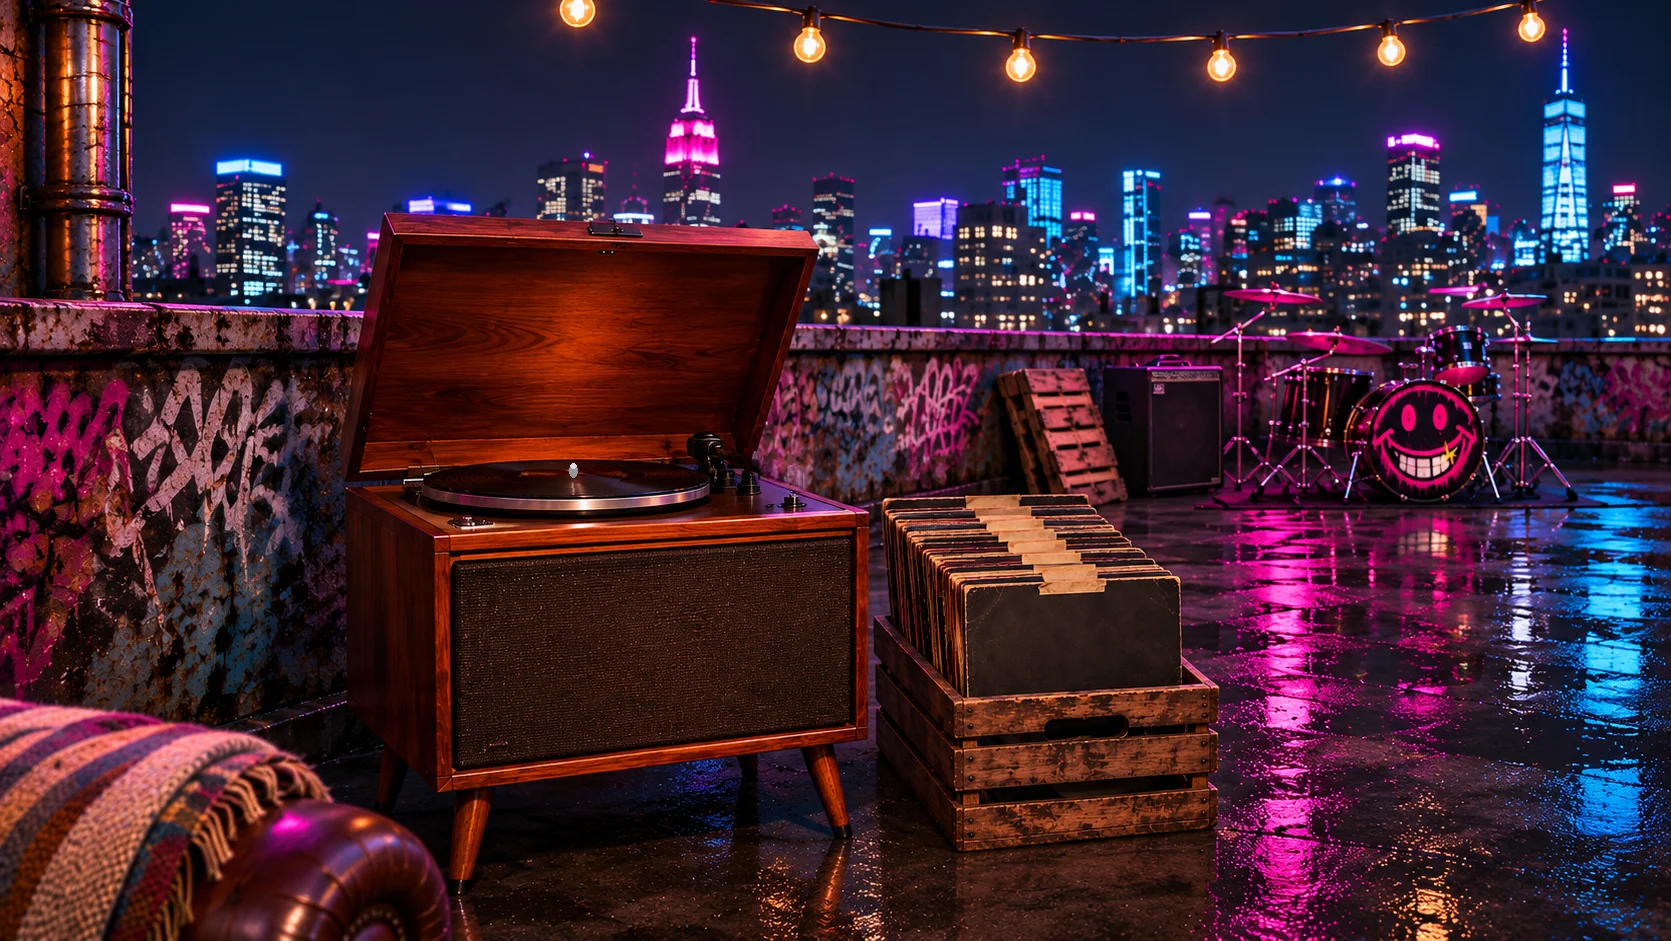
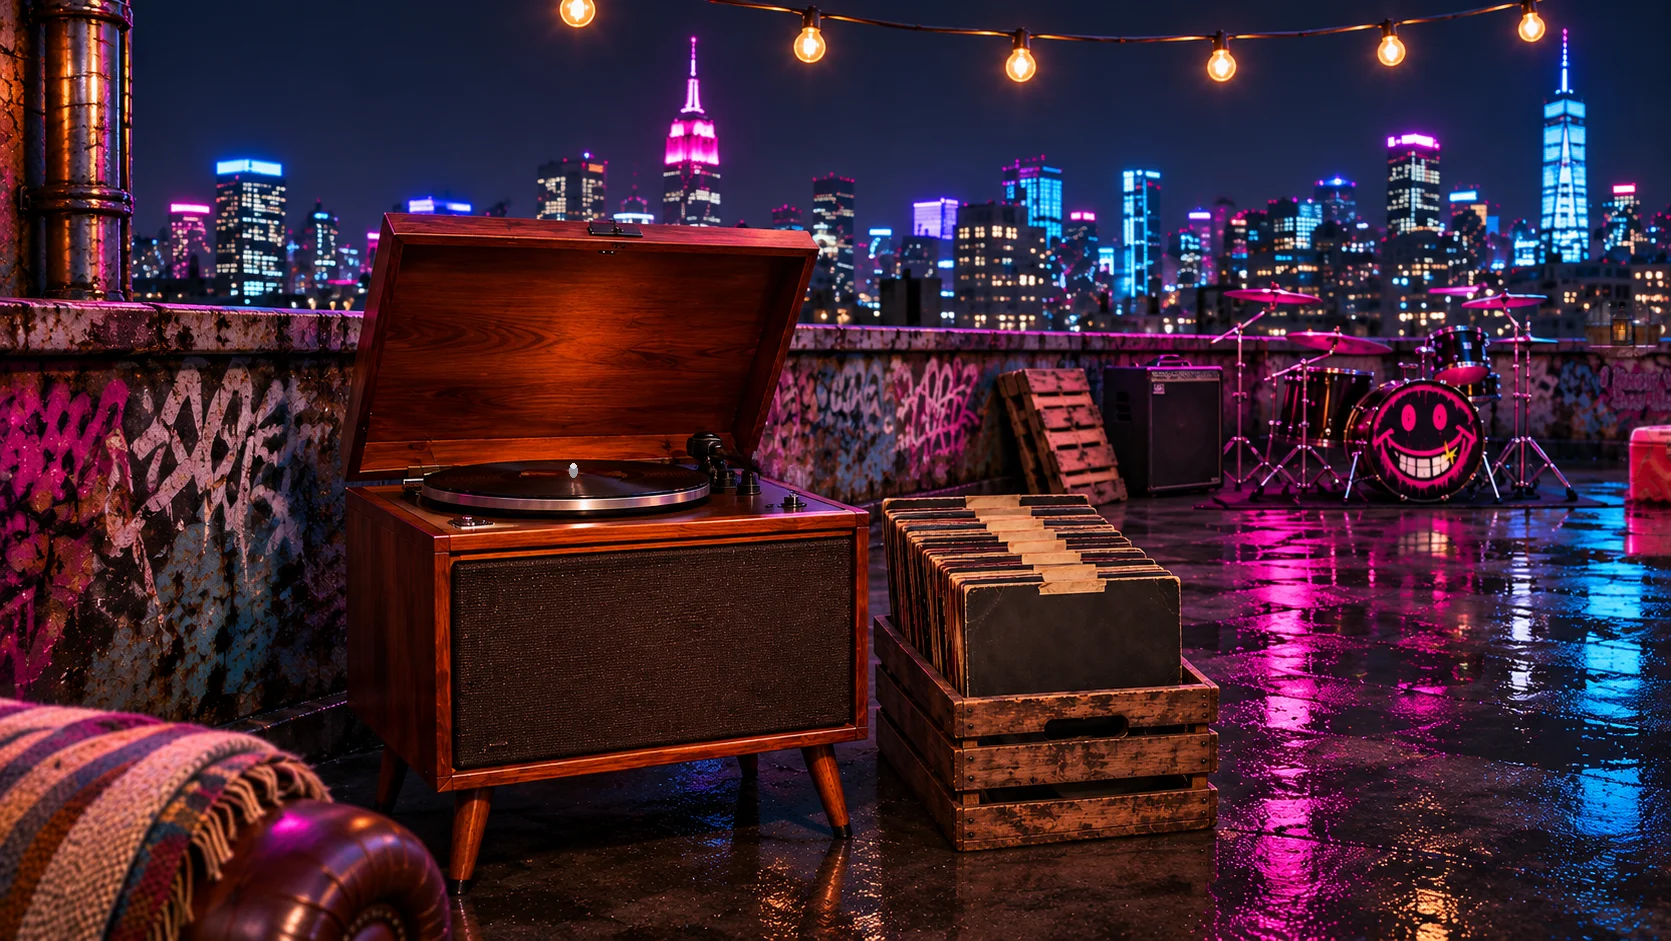
Lounge view matches the roof (lantern, cooler, tag) with the same interactions; swipe to the stage on phones
Claude-Session: https://claude.ai/code/session_011gssdMsenVXumrh9a32rRB

Changed region(s): [[0.9336, 0.3082, 1.0, 0.6164]]

diff --git a/index.html b/index.html
@@ -95,10 +95,10 @@ input{flex:1 1 220px;min-width:0;font:inherit;font-size:16px;padding:12px;backgr
 
 /* ---------- play layer: things on the roof you can poke ---------- */
 #play{position:absolute;left:0;top:0;width:1672px;height:941px;transform-origin:0 0;z-index:3;pointer-events:none}
-#play .pk{appearance:none;-webkit-appearance:none;background-color:transparent;border:0;padding:0;margin:0;color:transparent;position:absolute;pointer-events:auto;cursor:pointer;border-radius:8px;-webkit-tap-highlight-color:transparent}
+#play .pk,#lg-play .pk{appearance:none;-webkit-appearance:none;background-color:transparent;border:0;padding:0;margin:0;color:transparent;position:absolute;pointer-events:auto;cursor:pointer;border-radius:8px;-webkit-tap-highlight-color:transparent}
 #play .pk.img{background-image:url(img/rooftop-lounge.webp?v=10);background-size:1672px 941px;-webkit-mask-image:radial-gradient(ellipse 50% 50% at 50% 50%,#000 70%,transparent 100%);mask-image:radial-gradient(ellipse 50% 50% at 50% 50%,#000 70%,transparent 100%)}
-#play .pk:focus-visible{outline:3px solid var(--cyan);outline-offset:2px}
-@media (hover:hover){#play .pk:hover{filter:brightness(1.25) drop-shadow(0 0 6px rgba(255,61,127,.6))}}
+#play .pk:focus-visible,#lg-play .pk:focus-visible{outline:3px solid var(--cyan);outline-offset:2px}
+@media (hover:hover){#play .pk:hover,#lg-play .pk:hover{filter:brightness(1.25) drop-shadow(0 0 6px rgba(255,61,127,.6))}}
 .lt-glow{position:absolute;left:1206px;top:432px;width:80px;height:80px;border-radius:50%;pointer-events:none;
   background:radial-gradient(circle,rgba(255,190,90,.55) 0,rgba(255,150,60,.22) 30%,rgba(255,120,40,0) 70%);mix-blend-mode:screen;animation:flick 2.3s infinite steps(1)}
 .lt-flame{position:absolute;left:1243px;top:466px;width:6px;height:9px;border-radius:50% 50% 45% 45%;pointer-events:none;
@@ -107,9 +107,9 @@ input{flex:1 1 220px;min-width:0;font:inherit;font-size:16px;padding:12px;backgr
 @keyframes flick2{0%{transform:scale(1,1)}40%{transform:scale(.9,1.15) translateX(.4px)}100%{transform:scale(1.05,.9) translateX(-.4px)}}
 .lt-out{position:absolute;left:1228px;top:450px;width:36px;height:44px;pointer-events:none;background:radial-gradient(ellipse 40% 42% at 50% 55%,rgba(14,10,18,.82) 0,rgba(14,10,18,.55) 45%,rgba(14,10,18,0) 100%);opacity:0;transition:opacity .2s}
 .lt-warm{position:absolute;left:1180px;top:440px;width:132px;height:90px;pointer-events:none;background:radial-gradient(ellipse 50% 50% at 50% 45%,rgba(255,170,80,.18),rgba(255,170,80,0) 70%);mix-blend-mode:screen;transition:opacity .2s}
-#play.dark .lt-warm{opacity:0}
-#play.dark .lt-glow,#play.dark .lt-flame{opacity:0;animation:none;transition:opacity .15s}
-#play.dark .lt-out{opacity:1}
+.dark .lt-warm{opacity:0}
+.dark .lt-glow,.dark .lt-flame{opacity:0;animation:none;transition:opacity .15s}
+.dark .lt-out{opacity:1}
 .smoke{position:absolute;width:6px;height:6px;border-radius:50%;background:rgba(220,220,230,.5);filter:blur(2px);pointer-events:none;animation:smoke 1.6s ease-out forwards}
 @keyframes smoke{to{transform:translate(4px,-38px) scale(4);opacity:0}}
 .pg-gone{position:absolute;left:258px;top:160px;width:84px;height:76px;background:url(img/pigeon-gone.webp?v=1) 0 0/84px 76px;opacity:0;pointer-events:none;transition:opacity .08s}
@@ -256,7 +256,7 @@ input{flex:1 1 220px;min-width:0;font:inherit;font-size:16px;padding:12px;backgr
 .lounge{position:fixed;inset:0;z-index:40;overflow:hidden;background:#05060a;opacity:0;pointer-events:none}
 .lounge.on{opacity:1;pointer-events:auto}
 .lounge:not(.on),.lounge:not(.on) *{pointer-events:none!important}
-.lounge.moving .lg-fill{opacity:.25}.lg-fill{transition:opacity .4s;position:absolute;inset:-40px;background:url(img/lounge.webp?v=7) 62% 50%/cover;filter:blur(22px) brightness(.45)}
+.lounge.moving .lg-fill{opacity:.25}.lg-fill{transition:opacity .4s;position:absolute;inset:-40px;background:url(img/lounge.webp?v=11) 62% 50%/cover;filter:blur(22px) brightness(.45)}
 .lg-cam,.lg-hero{position:absolute;left:0;top:0;width:1672px;height:941px;transform-origin:0 0;will-change:transform,opacity}
 .lg-cam{z-index:8}.lg-hero{z-index:2;background:url(img/rooftop-lounge.webp?v=10) 0 0/1672px 941px;pointer-events:none}
 .lg-cam img{position:absolute;display:block;user-select:none;-webkit-user-drag:none}
@@ -264,6 +264,11 @@ input{flex:1 1 220px;min-width:0;font:inherit;font-size:16px;padding:12px;backgr
 .lg-front{left:341px;top:489px;width:886px;height:405px;pointer-events:none}
 .lg-cam svg{position:absolute;left:0;top:0;width:1672px;height:941px;overflow:visible;pointer-events:none}
 .lg-hot{all:unset;position:absolute;cursor:pointer;border-radius:10px;z-index:4}
+.lg-swipe{display:none;position:absolute;right:14px;top:22px;font:11px var(--mono);letter-spacing:.15em;text-transform:uppercase;color:#fff;opacity:.7;pointer-events:none}
+@media (max-width:760px) and (orientation:portrait){.lg-swipe{display:block}}
+.lounge{touch-action:pan-y}
+#lg-play{position:absolute;left:0;top:0;width:1672px;height:941px;pointer-events:none;z-index:3}
+#lp-kick.kick{filter:drop-shadow(0 0 14px rgba(255,61,127,.9));background:radial-gradient(circle,rgba(255,61,127,.25),transparent 70%)}
 .lg-hot:focus-visible{outline:4px solid var(--cyan);outline-offset:4px}
 .lg-hot.crate{left:873px;top:488px;width:352px;height:365px}
 .lg-hot.deck{left:400px;top:440px;width:420px;height:70px}
@@ -343,7 +348,7 @@ input{flex:1 1 220px;min-width:0;font:inherit;font-size:16px;padding:12px;backgr
 .dig-row[disabled]{cursor:default;color:var(--fog)}.dig-row[disabled] em{color:var(--fog)}
 .dig-row:not([disabled]):hover{background:rgba(255,61,127,.12)}
 @media (max-width:760px){.dig-head h3{visibility:hidden}.dig-foot{flex-wrap:wrap;justify-content:center;border-radius:18px;width:calc(100% - 24px);padding:10px 12px;row-gap:8px}.dig-foot b{order:-1;flex:1 0 100%;text-align:center;font-size:18px}}
-.cr-fill{position:absolute;inset:-40px;background:url(img/lounge.webp?v=7) 50% 50%/cover;filter:blur(24px) brightness(.4)}
+.cr-fill{position:absolute;inset:-40px;background:url(img/lounge.webp?v=11) 50% 50%/cover;filter:blur(24px) brightness(.4)}
 @media (max-width:760px) and (orientation:portrait){
   .lg-panel{position:absolute;pointer-events:auto;left:12px;right:12px;top:auto;bottom:calc(12px + env(safe-area-inset-bottom,0px));width:auto;height:auto;transform:none;background:var(--glass);border-color:var(--line);padding:14px 16px;gap:8px}
   .lg-panel small{font-size:11px}.lg-panel b{font-size:24px}.lg-panel .row{font-size:13px}
@@ -389,6 +394,16 @@ input{flex:1 1 220px;min-width:0;font:inherit;font-size:16px;padding:12px;backgr
       <g id="lg-sleeve" opacity="0"><rect x="-88" y="0" width="176" height="176" rx="3" fill="#0b0b12" stroke="#ff3d7f" stroke-opacity=".6" stroke-width="2"/><image href="img/smile-logo.webp" x="-48" y="26" width="96" height="96"/><text x="0" y="158" text-anchor="middle" font-family="Yellowtail, cursive" font-size="26" fill="#fff">Don't Mind It</text></g>
       </g>
     </svg>
+    <div id="lg-play">
+      <div class="lgp-set" id="lgp-set" style="position:absolute;left:0;top:0;width:1672px;height:941px;transform-origin:0 0;transform:matrix(1.004,0,0,1.004,371.3,-146.7);pointer-events:none"><div class="lt-warm"></div><div class="lt-glow"></div><div class="lt-flame"></div><div class="lt-out"></div></div>
+      <button class="pk" id="lp-lantern" style="left:1600px;top:290px;width:44px;height:62px" aria-label="Candle lantern"></button>
+      <button class="pk" id="lp-kick" style="left:1345px;top:370px;width:140px;height:140px;border-radius:50%" aria-label="Kick drum"></button>
+      <button class="pk" id="lp-cym1" style="left:1218px;top:278px;width:108px;height:32px" aria-label="Cymbal"></button>
+      <button class="pk" id="lp-cym2" style="left:1455px;top:283px;width:104px;height:32px" aria-label="Cymbal"></button>
+      <button class="pk" id="lp-amp" style="left:1104px;top:364px;width:118px;height:128px" aria-label="Amp"></button>
+      <button class="pk" id="lp-cooler" style="left:1626px;top:420px;width:46px;height:86px" aria-label="Cooler"></button>
+      <button class="pk" id="lp-tag" style="left:1588px;top:356px;width:84px;height:66px" aria-label="Graffiti tag"></button>
+    </div>
     <img class="lg-front" src="img/lounge-front.webp?v=7" alt="" width="886" height="442">
     <svg aria-hidden="true"><g id="lg-hold"></g></svg>
     <button class="lg-hot crate" id="lg-crate-hot" aria-label="Pick a record"></button>
@@ -408,6 +423,7 @@ input{flex:1 1 220px;min-width:0;font:inherit;font-size:16px;padding:12px;backgr
   <div class="lg-wl" id="wl-sky"></div><div class="lg-wl" id="hero-g"></div><div class="lg-wl" id="wl-mid"></div><div class="lg-wl" id="hero-f"></div><div class="lg-wl" id="wl-fore"></div>
   <div class="lg-ui">
     <a class="pill lg-back" style="--c:var(--cyan)" href="#" id="lg-back">← Back to the stage</a>
+    <div class="lg-swipe" aria-hidden="true">swipe ⇢ stage</div>
     <div class="lg-dig" id="dig" data-mode="crate" role="dialog" aria-label="Record crate" aria-hidden="true">
       <div class="cr-fill"></div>
       <div class="cr-mx"><div class="cr-my"><div class="cr-box" id="cr-box">
@@ -544,12 +560,19 @@ input{flex:1 1 220px;min-width:0;font:inherit;font-size:16px;padding:12px;backgr
   /* ---------- framing: the 1672x941 scene box is scaled to cover the screen ---------- */
   let S=1,OX=0,OY=0;
   const portrait=()=>innerWidth<=760&&innerHeight>innerWidth;
+  // phones: drag sideways in the lounge to look over at the stage (0 = record player, 422 = drums + cooler)
+  let lgPan=0, lgDrag=null;
+  L.addEventListener("pointerdown",e=>{ if(!portrait()||e.target.closest("a,.lg-panel,.lg-dig,.lg-back")) return; lgDrag={x:e.clientX,p:lgPan,moved:false}; });
+  L.addEventListener("click",e=>{ if(lgMoved){ e.preventDefault(); e.stopPropagation(); lgMoved=false; } },true);
+  let lgMoved=false;
+  addEventListener("pointermove",e=>{ if(!lgDrag) return; const dx=e.clientX-lgDrag.x; if(Math.abs(dx)>6){ lgDrag.moved=true; lgMoved=true; } lgPan=Math.max(0,Math.min(422,lgDrag.p-dx/S)); frame(); });
+  addEventListener("pointerup",()=>{ if(lgDrag&&!lgDrag.moved) lgMoved=false; lgDrag=null; }); addEventListener("pointercancel",()=>{ lgDrag=null; });
   function frame(){
     const w=innerWidth,h=innerHeight;
     const pan=$("lg-panel"), ui=document.querySelector(".lg-ui");
     if(portrait()){ if(pan.parentNode!==ui) ui.insertBefore(pan,ui.firstChild); } else if(pan.parentNode!==cam) cam.appendChild(pan);
     if(portrait()){ // phones: show the console + crate side, letterboxed over a blurred fill
-      S=w/920; OX=-330*S; OY=Math.max(60,(h-H0*S)/2-110);
+      S=w/920; OX=-(330+lgPan)*S; OY=Math.max(60,(h-H0*S)/2-110);
     }else{ // keep the console and the whole crate in frame; crop sky first
       S=Math.max(w/W0,h/H0); OX=(w-W0*S)*0.45; OY=(h-H0*S)*0.7;
     }
@@ -574,7 +597,7 @@ input{flex:1 1 220px;min-width:0;font:inherit;font-size:16px;padding:12px;backgr
   function run(ms,f,done){ ms*=(window.__TS||1); const t0=performance.now(); function st(now){ const t=cl((now-t0)/ms); f(t); if(t<1) anim=requestAnimationFrame(st); else {anim=null;done&&done();} } anim=requestAnimationFrame(st); }
   function enter(){
     if(L.classList.contains("on")) return;
-    frame(); closeCrate();
+    lgPan=0; frame(); closeCrate();
     L.classList.add("on"); L.setAttribute("aria-hidden","false"); stg.setAttribute("aria-hidden","true");
     if(location.hash!=="#lounge") history.pushState(null,"","#lounge");
     loop();
@@ -586,7 +609,7 @@ input{flex:1 1 220px;min-width:0;font:inherit;font-size:16px;padding:12px;backgr
     const v=$("lg-glide"), soft=t=>t*t*(3-2*t);
     const [wSky,hG,wMid,wFore]=WL, HF2=$("hero-f"); [wSky,hG,wMid,wFore,HF2].forEach(el=>el.style.opacity="0");
     hero.style.display="none";
-    $("pl-sky").src="img/lounge.webp?v=7"; $("pl-mid").style.display="none"; $("pl-fore").style.display="none";
+    $("pl-sky").src="img/lounge.webp?v=11"; $("pl-mid").style.display="none"; $("pl-fore").style.display="none";
     const M1={s:S,ox:OX,oy:OY};
     const bp=(stg.style.backgroundPosition||"50% 42%").split(" "); v.style.objectPosition=bp.join(" ");
     v.style.opacity="1"; v.style.display="block"; cam.style.opacity="0";
@@ -1015,16 +1038,19 @@ input{flex:1 1 220px;min-width:0;font:inherit;font-size:16px;padding:12px;backgr
       const s=noise(.5), f=a.createBiquadFilter(), g=a.createGain(); f.type="bandpass"; f.frequency.value=900; env(g,t+.6,.01,.25,.4); s.connect(f).connect(g).connect(a.destination); s.start(t+.6); };
     const puff=()=>{ const a=ac(); if(!a) return; const t=a.currentTime, s=noise(.4), f=a.createBiquadFilter(), g=a.createGain(); f.type="lowpass"; f.frequency.value=700; env(g,t,.02,.3,.3); s.connect(f).connect(g).connect(a.destination); s.start(t); };
     const clink=()=>{ const a=ac(); if(!a) return; const t=a.currentTime; [2400,3100].forEach((fr,i)=>{ const o=a.createOscillator(), g=a.createGain(); o.frequency.value=fr; env(g,t+i*.05,.002,.08,.25); o.connect(g).connect(a.destination); o.start(t+i*.05); o.stop(t+.4); }); };
-    const say=(el,txt)=>{ const r=el.getBoundingClientRect(), st=$("stage").getBoundingClientRect(); const b=document.createElement("div"); b.className="bubble"; b.textContent=txt;
-      b.style.left=Math.max(120,Math.min(innerWidth-120,r.left+r.width/2-st.left))+"px"; b.style.top=Math.max(70,r.top-st.top)+"px"; $("stage").appendChild(b); setTimeout(()=>b.remove(),2900); };
+    const host=el=>el.closest(".lounge")||$("stage");
+    const say=(el,txt)=>{ const hs=host(el), r=el.getBoundingClientRect(), st=hs.getBoundingClientRect(); const b=document.createElement("div"); b.className="bubble"; b.style.zIndex=20; b.textContent=txt;
+      b.style.left=Math.max(120,Math.min(innerWidth-120,r.left+r.width/2-st.left))+"px"; b.style.top=Math.max(70,r.top-st.top)+"px"; hs.appendChild(b); setTimeout(()=>b.remove(),2900); };
+    const flashIn=el=>bump(host(el).querySelector(".flash")||$("flash"),"go");
     const pick=a=>a[Math.floor(Math.random()*a.length)];
     const bump=(el,cls)=>{ el.classList.remove(cls); void el.offsetWidth; el.classList.add(cls); };
     const on=(id,fn)=>$(id).addEventListener("click",e=>{ e.stopPropagation(); fn(e.currentTarget); });
     // lantern: blow it out, it relights
-    let lit=true;
-    on("pk-lantern",el=>{ if(!lit) return; lit=false; puff(); play.classList.add("dark");
-      for(let i=0;i<3;i++){ const s=document.createElement("div"); s.className="smoke"; s.style.left=(1243+i*2)+"px"; s.style.top="462px"; s.style.animationDelay=(i*.18)+"s"; play.appendChild(s); setTimeout(()=>s.remove(),2200); }
-      setTimeout(()=>{ play.classList.remove("dark"); lit=true; },3200); });
+    const blowOut=set=>{ if(set.classList.contains("dark")) return; puff(); set.classList.add("dark");
+      for(let i=0;i<3;i++){ const s=document.createElement("div"); s.className="smoke"; s.style.left=(1243+i*2)+"px"; s.style.top="462px"; s.style.animationDelay=(i*.18)+"s"; set.appendChild(s); setTimeout(()=>s.remove(),2200); }
+      setTimeout(()=>set.classList.remove("dark"),3200); };
+    on("pk-lantern",()=>blowOut(play));
+    window.MSPlay={kick,crash,feedback,clink,puff,say,bump,pick,blowOut,flashIn};
     // pigeon: coos, then takes off; comes back later
     let flown=false;
     on("pk-pigeon",el=>{ if(flown) return; coo(); setTimeout(()=>{ flown=true; play.classList.add("flown"); el.style.pointerEvents="none"; },650);
@@ -1032,22 +1058,36 @@ input{flex:1 1 220px;min-width:0;font:inherit;font-size:16px;padding:12px;backgr
     // drums + amp
     on("pk-kick",el=>{ kick(); bump(el,"kick"); });
     on("pk-cym1",()=>crash()); on("pk-cym2",()=>crash());
-    on("pk-amp",el=>{ feedback(); bump($("flash"),"go"); say(el,pick(["Who left this on?","Turn it to 11.","EEEEEEEEE","Unplug it! Unplug it!"])); });
+    const AMP=["Who left this on?","Turn it to 11.","EEEEEEEEE","Unplug it! Unplug it!"], COOL=["Empty. Classic.","One left. It's warm.","Ice, no drinks.","Band only.","Someone ate the last slice and left the box."];
+    window.MSPlay.AMP=AMP; window.MSPlay.COOL=COOL;
+    on("pk-amp",el=>{ feedback(); flashIn(el); say(el,pick(AMP)); });
     on("pk-gnome",el=>{ bump(el,"wob"); say(el,pick(["Don't mind me.","Five more minutes.","I'm the roadie.","Wake me up for the encore.","Who invited the gnome?"])); });
-    on("pk-cooler",el=>{ clink(); say(el,pick(["Empty. Classic.","One left. It's warm.","Ice, no drinks.","Band only.","Someone ate the last slice and left the box."])); });
+    on("pk-cooler",el=>{ clink(); say(el,pick(COOL)); });
     // neon sign: kill a letter, it buzzes back
     document.querySelectorAll(".sign span span").forEach(s=>s.addEventListener("click",e=>{ e.stopPropagation(); s.classList.add("dead"); puff(); setTimeout(()=>s.classList.remove("dead"),2500+Math.random()*2500); }));
     // tag hunt: 17 song titles hidden in the graffiti
     const KEY="ms-tags"; let found=[]; try{ found=JSON.parse(localStorage.getItem(KEY)||"[]"); }catch(e){}
     const hunt=$("hunt"), box=$("tags");
     const showHunt=()=>{ hunt.textContent=`Tags found ${found.length}/${TAGS.length}`; hunt.classList.toggle("on",found.length>0); };
-    TAGS.forEach(([name,x,y,w,h])=>{ const b=document.createElement("button"); b.className="pk"; b.setAttribute("aria-label","Graffiti tag");
-      Object.assign(b.style,{left:x+"px",top:y+"px",width:w+"px",height:h+"px"}); box.appendChild(b);
-      b.addEventListener("click",e=>{ e.stopPropagation(); const g=document.createElement("div"); g.className="tag-found"; Object.assign(g.style,{left:x+"px",top:y+"px",width:w+"px",height:h+"px"}); box.appendChild(g); setTimeout(()=>g.remove(),1500);
+    const hitTag=(name,b,where,x,y,w,h)=>{ const g=document.createElement("div"); g.className="tag-found"; Object.assign(g.style,{left:x+"px",top:y+"px",width:w+"px",height:h+"px"}); where.appendChild(g); setTimeout(()=>g.remove(),1500);
         const isNew=!found.includes(name); if(isNew){ found.push(name); try{ localStorage.setItem(KEY,JSON.stringify(found)); }catch(e){} }
         say(b,isNew?`Found: "${name}"`:`"${name}" (already found)`); showHunt();
-        if(isNew&&found.length===TAGS.length) setTimeout(()=>say(b,"All 17 found. You know the whole catalog. Respect."),3000); }); });
+        if(isNew&&found.length===TAGS.length) setTimeout(()=>say(b,"All 17 found. You know the whole catalog. Respect."),3000); };
+    window.MSPlay.hitTag=hitTag;
+    TAGS.forEach(([name,x,y,w,h])=>{ const b=document.createElement("button"); b.className="pk"; b.setAttribute("aria-label","Graffiti tag");
+      Object.assign(b.style,{left:x+"px",top:y+"px",width:w+"px",height:h+"px"}); box.appendChild(b);
+      b.addEventListener("click",e=>{ e.stopPropagation(); hitTag(name,b,box,x,y,w,h); }); });
     showHunt();
+  })();
+
+  /* lounge view: same roof, same toys */
+  (()=>{ const P=window.MSPlay; if(!P) return; const on=(id,fn)=>$(id).addEventListener("click",e=>{ e.stopPropagation(); fn(e.currentTarget); });
+    on("lp-lantern",()=>P.blowOut($("lgp-set")));
+    on("lp-kick",el=>{ P.kick(); P.bump(el,"kick"); });
+    on("lp-cym1",()=>P.crash()); on("lp-cym2",()=>P.crash());
+    on("lp-amp",el=>{ P.feedback(); P.say(el,P.pick(P.AMP)); });
+    on("lp-cooler",el=>{ P.clink(); P.say(el,P.pick(P.COOL)); });
+    on("lp-tag",el=>P.hitTag("I Know What You Need",el,$("lg-play"),1588,356,84,66));
   })();
   // phones: the scene holds still, framed on the lounge + stage; swipe sideways to look around the roof.
   // One short drift on first load hints that it moves.
